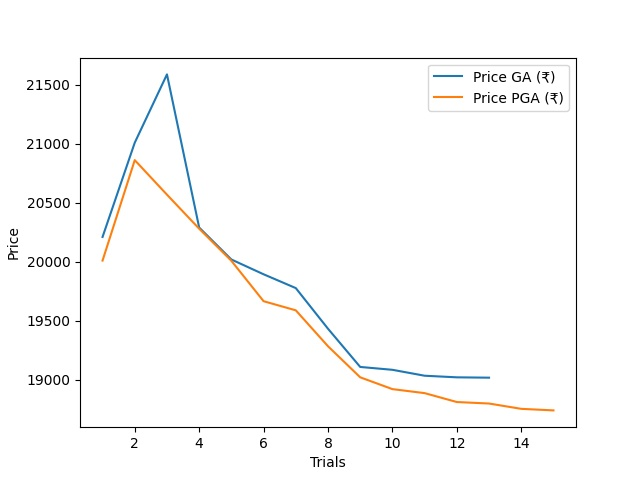
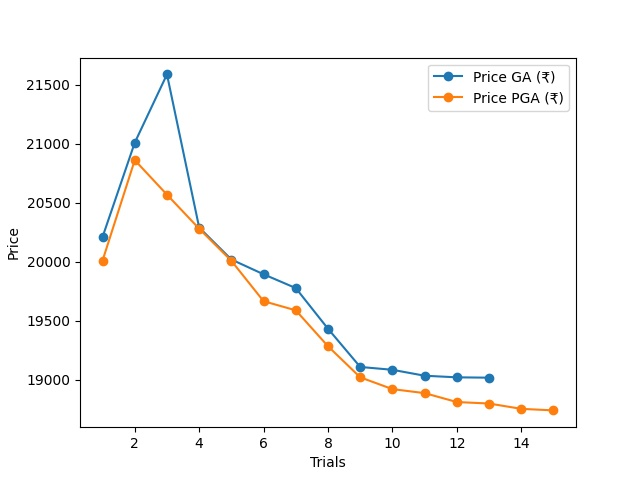
plot 3 and 4 with markers

diff --git a/plot3.py b/plot3.py
@@ -9,8 +9,8 @@ x1 = np.array([i+1 for i in range(len(y1))])
 y2=np.array([20010.60,20860.90,20568.60,20280.50,20008.80,19666.80,19589.60,19285.60,19022.60,18922.70,18888.80,18813.40,18800.80,18755.80,18742.60])
 x2 = np.array([i+1 for i in range(len(y2))])
 
-plt.plot(x1, y1,label="Price GA (₹)") # Plot the chart
-plt.plot(x2, y2,label="Price PGA (₹)") # Plot the chart
+plt.plot(x1, y1,label="Price GA (₹)",marker="o") # Plot the chart
+plt.plot(x2, y2,label="Price PGA (₹)",marker="o") # Plot the chart
 plt.legend()
 plt.xlabel("Trials")
 plt.ylabel("Price")

diff --git a/plot4.py b/plot4.py
@@ -9,8 +9,8 @@ x1 = np.array([i+1 for i in range(len(y1))])
 y2=np.array([34000.00,34816.60,34980.60,34530.00,34375.20,34010.40,33910.00,33833.80,33696.10,33602.20,33540.60,33506.80,33426.40,33376.60,33290.80])
 x2 = np.array([i+1 for i in range(len(y2))])
 
-plt.plot(x1, y1,label="Price GA (₹)") # Plot the chart
-plt.plot(x2, y2,label="Price PGA (₹)") # Plot the chart
+plt.plot(x1, y1,label="Price GA (₹)",marker="o") # Plot the chart
+plt.plot(x2, y2,label="Price PGA (₹)",marker="o") # Plot the chart
 plt.legend()
 plt.xlabel("Trials")
 plt.ylabel("Price")
